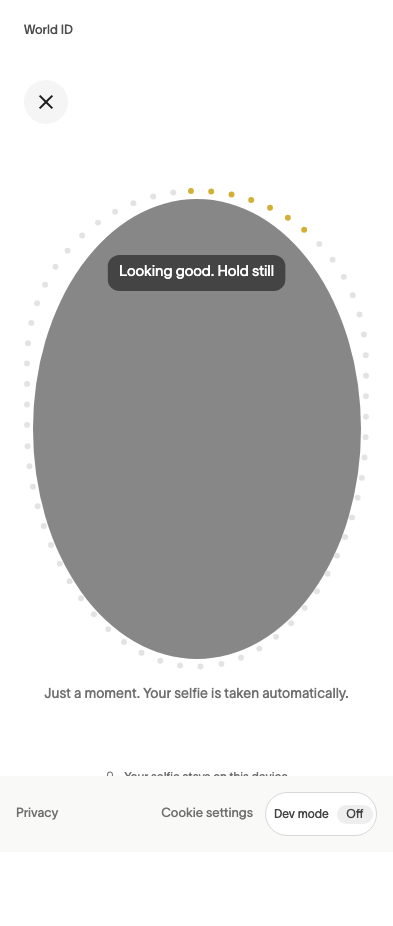
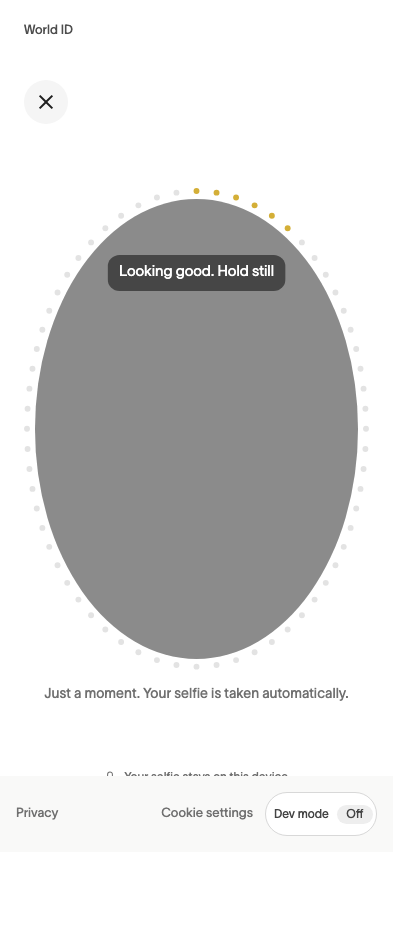
Space capture dots evenly around the camera ellipse

diff --git a/web/components/CaptureProgressRing.tsx b/web/components/CaptureProgressRing.tsx
@@ -1,26 +1,40 @@
-// Dot positions retain the Figma capture aperture, ordered clockwise from the top.
-const DOTS = [
-  [166.956, 3.05022], [187.209, 3.5616], [207.537, 6.56787], [227.187, 11.98],
-  [246.022, 19.7243], [263.881, 29.7558], [280.154, 41.6947], [295.347, 55.877],
-  [308.631, 71.6872], [319.792, 88.8303], [328.78, 107.144], [335.51, 126.453],
-  [339.877, 146.555], [341.794, 167.298], [342.043, 187.75], [341.922, 208.16],
-  [341.981, 228.798], [341.628, 249.16], [340.513, 269.461], [337.826, 289.846],
-  [333.625, 309.765], [328.054, 329.394], [321.094, 348.915], [312.984, 367.649],
-  [303.595, 385.827], [292.915, 403.233], [280.729, 419.864], [267.152, 435.165],
-  [252.079, 448.855], [235.328, 460.605], [217.011, 469.808], [197.495, 475.876],
-  [176.52, 478.537], [156.116, 477.526], [136.258, 472.741], [117.472, 464.747],
-  [100.032, 454.051], [84.2476, 441.132], [69.9137, 426.317], [57.0768, 410.283],
-  [45.7101, 393.295], [35.7973, 375.629], [27.069, 356.985], [19.7636, 338.034],
-  [13.662, 318.327], [8.99311, 298.714], [5.55288, 278.216], [3.61374, 258.237],
-  [3.07809, 236.915], [2.99353, 216.527], [3.05253, 195.894], [2.97663, 175.43],
-  [3.99323, 155.144], [7.34097, 134.894], [13.0642, 115.326], [21.0639, 96.6448],
-  [31.4853, 78.6848], [43.5932, 62.6351], [58.1285, 47.5107], [74.0145, 34.5785],
-  [91.1657, 23.7718], [109.408, 15.1346], [129.203, 8.5657], [149.248, 4.54787],
-] as const;
+const WIDTH = 345.005;
+const HEIGHT = 481.637;
+const DOT_COUNT = 64;
+const SURFACE_INSET = 11;
+const RING_GAP = 8;
+
+// Match the camera ellipse, offset along its normal for a constant edge gap.
+// Equal angles crowd dots near the tips, so distribute them by arc length instead.
+const samples = Array.from({ length: 1025 }, (_, index) => {
+  const angle = index / 1024 * Math.PI * 2;
+  const rx = WIDTH / 2 - SURFACE_INSET;
+  const ry = HEIGHT / 2 - SURFACE_INSET;
+  const nx = Math.sin(angle) / rx;
+  const ny = -Math.cos(angle) / ry;
+  const normal = Math.hypot(nx, ny);
+  return { x: WIDTH / 2 + rx * Math.sin(angle) + RING_GAP * nx / normal,
+    y: HEIGHT / 2 - ry * Math.cos(angle) + RING_GAP * ny / normal, length: 0 };
+});
+for (let index = 1; index < samples.length; index++) {
+  const previous = samples[index - 1]!;
+  const point = samples[index]!;
+  point.length = previous.length + Math.hypot(point.x - previous.x, point.y - previous.y);
+}
+const perimeter = samples[samples.length - 1]!.length;
+let segment = 1;
+const DOTS = Array.from({ length: DOT_COUNT }, (_, index) => {
+  const distance = index / DOT_COUNT * perimeter;
+  while (samples[segment]!.length < distance) segment++;
+  const start = samples[segment - 1]!;
+  const end = samples[segment]!;
+  const fraction = (distance - start.length) / (end.length - start.length);
+  return { x: start.x + (end.x - start.x) * fraction, y: start.y + (end.y - start.y) * fraction };
+});
 
 export function CaptureProgressRing({ progress }: { progress: number }) {
-  const filled = Math.floor(Math.max(0, Math.min(1, progress)) * DOTS.length);
-  return <svg className="selfie-design-ring" viewBox="0 0 345.005 481.637" fill="none" aria-hidden="true">
-    {DOTS.map(([cx, cy], index) => <circle key={index} cx={cx} cy={cy} r="2.94866" data-filled={index < filled} />)}
+  const filled = Math.floor(Math.max(0, Math.min(1, progress)) * DOT_COUNT);
+  return <svg className="selfie-design-ring" viewBox={`0 0 ${WIDTH} ${HEIGHT}`} fill="none" aria-hidden="true">
+    {DOTS.map(({ x, y }, index) => <circle key={index} cx={x} cy={y} r="2.94866" data-filled={index < filled} />)}
   </svg>;
 }

diff --git a/web/components/SelfieCheck.css b/web/components/SelfieCheck.css
@@ -67,10 +67,10 @@
 .public-request-flow .selfie-content { padding-block: 64px 24px; }
 .public-request-flow .selfie-content > h1 { position: absolute; width: 1px; height: 1px; padding: 0; margin: -1px; overflow: hidden; clip: rect(0, 0, 0, 0); }
 .public-request-flow .selfie-camera-stage { width: 345px; max-width: 100%; aspect-ratio: 345.005 / 481.637; margin-bottom: 76px; }
-.public-request-flow .selfie-camera-surface { inset: 11px 8.5px; }
+/* 11 units inside the ring viewBox, scaling with the aperture on narrow screens. */
+.public-request-flow .selfie-camera-surface, .public-request-flow .selfie-feedback { inset: calc(11 / 481.637 * 100%) calc(11 / 345.005 * 100%); }
 .public-request-flow .selfie-camera-ring { display: none; }
 .public-request-flow .selfie-design-ring { display: block; position: absolute; top: 0; left: 0; width: 345.005px; max-width: 100%; height: auto; pointer-events: none; }
-.public-request-flow .selfie-feedback { inset: 11px 8.5px; }
 .public-request-flow .selfie-guidance { top: 12.2%; min-height: 36px; display: flex; align-items: center; padding: 8px 12px; background: rgb(24 24 24 / 60%); backdrop-filter: blur(10px); }
 .public-request-flow .selfie-guidance h2 { font-size: 15px; line-height: 1.3; font-weight: 350; letter-spacing: -.075px; }
 .public-request-flow .selfie-hint { top: calc(100% + 26px); font-size: 14px; }
